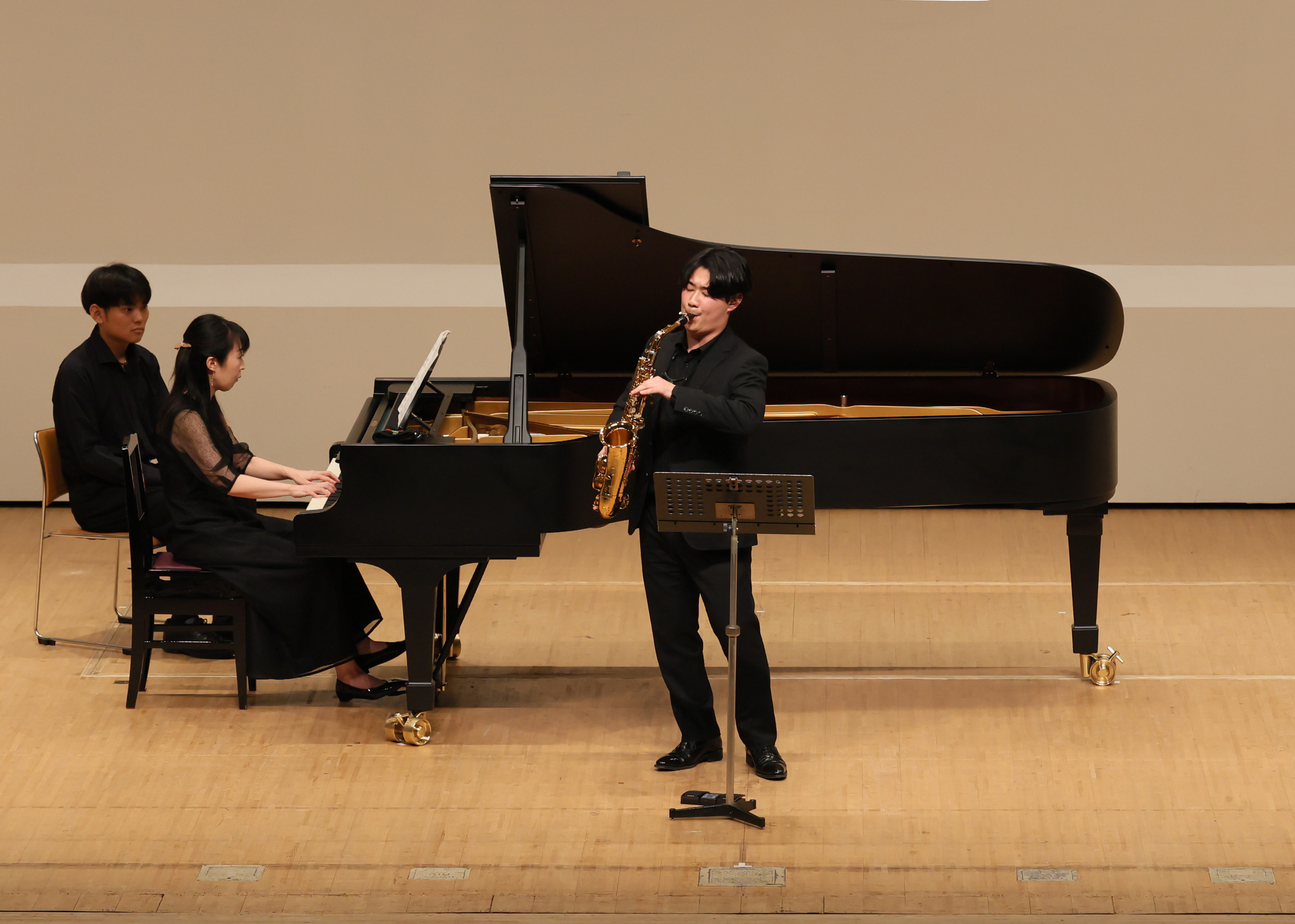
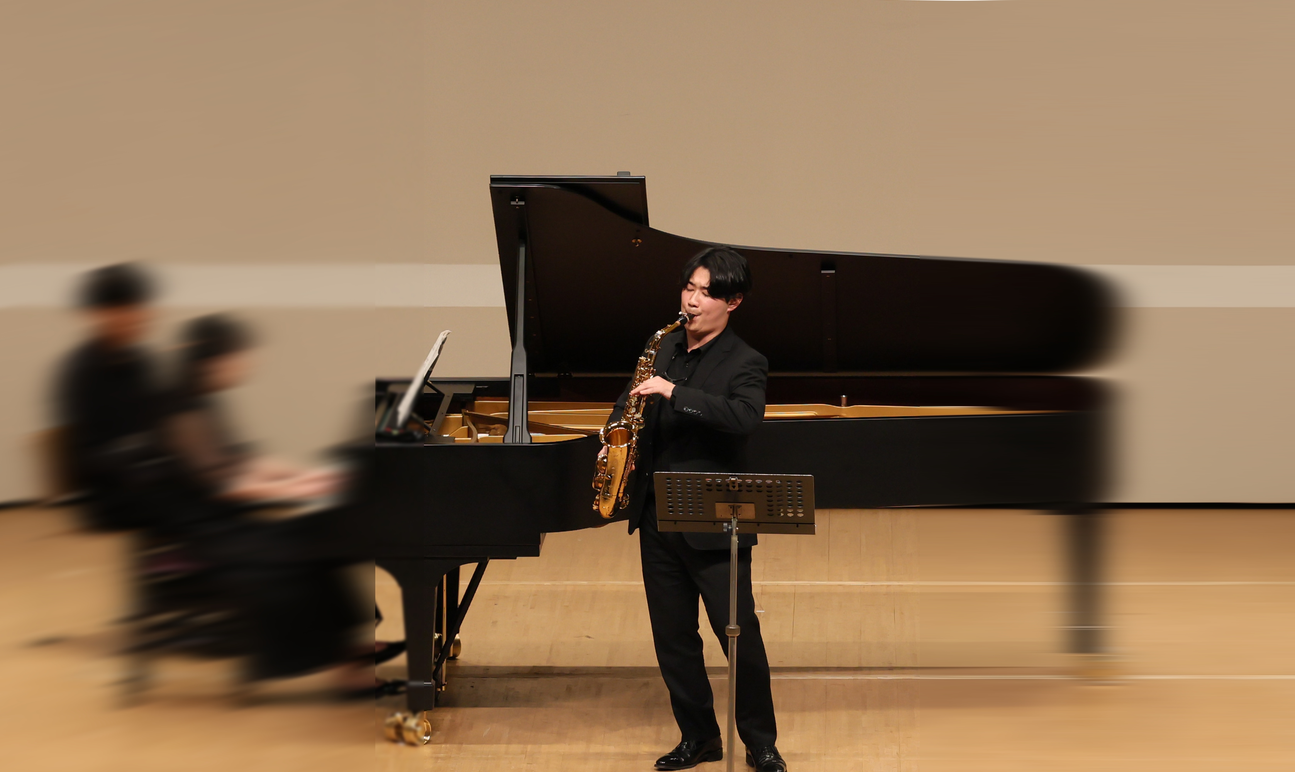
todo回収

diff --git a/index.html b/index.html
@@ -60,42 +60,12 @@
         </div>
       </div>
     </section>
-
-    <section class="latest-news">
-      <div class="container">
-        <h2 class="section-title">最新情報</h2>
-        <div class="news-list">
-          <article class="news-item">
-            <time class="news-date" datetime="2025-05-15">2025.05.15</time>
-            <h3 class="news-title">夏季集中レッスンの募集を開始しました</h3>
-            <p class="news-text">8月に開催予定の夏季集中レッスンの募集を開始しました。受験対策にも最適です。</p>
-            <a href="#" class="news-more">詳しく見る</a>
-          </article>
-          <article class="news-item">
-            <time class="news-date" datetime="2025-04-20">2025.04.20</time>
-            <h3 class="news-title">Ensemble翡翠 春の演奏会のお知らせ</h3>
-            <p class="news-text">6月15日(日)に東京都内でEnsemble翡翠の演奏会を開催します。チケット販売中です。</p>
-            <a href="#" class="news-more">詳しく見る</a>
-          </article>
-          <article class="news-item">
-            <time class="news-date" datetime="2025-04-01">2025.04.01</time>
-            <h3 class="news-title">公式ウェブサイトをオープンしました</h3>
-            <p class="news-text">この度、公式ウェブサイトを開設いたしました。今後の活動や最新情報をお届けします。</p>
-            <a href="#" class="news-more">詳しく見る</a>
-          </article>
-        </div>
-        <div class="news-more-link">
-          <a href="#" class="btn btn-outline">過去のお知らせ</a>
-        </div>
-      </div>
-    </section>
-
     <section class="lessons-intro">
       <div class="container">
         <h2 class="section-title">レッスンのご案内</h2>
         <div class="lessons-content">
           <div class="lessons-image">
-            <img src="images/lesson_1.PNG" alt="レッスン風景">
+            <img src="images/lesson_1.JPG" alt="レッスン風景">
           </div>
           <div class="lessons-text">
             <p>初心者から上級者、音大受験生まで、レベルや目的に合わせたレッスンを提供しています。フランス留学の経験を活かし、音色の追求や表現力を重視した指導を行います。</p>

diff --git a/lessons.html b/lessons.html
@@ -29,7 +29,7 @@
       <div class="container">
         <div class="overview-content">
           <div class="overview-image fade-in">
-            <img src="images/lesson_1.PNG" alt="レッスン風景">
+            <img src="images/lesson_2.PNG" alt="レッスン風景">
           </div>
           <div class="overview-text">
             <h3 class="fade-in">フランス流と日本流、両方の良さを取り入れたサクソフォンレッスン</h3>
@@ -106,7 +106,7 @@
             <div class="plan-content">
               <ul class="plan-details">
                 <li><i class="fas fa-check"></i> 部活動等のパートレッスン</li>
-                <li><i class="fas fa-check"></i> アンサンブル（サクソフォン四重奏など）レッスン</li>
+                <li><i class="fas fa-check"></i> アンサンブル（サクソフォン四重奏など）のレッスン</li>
                 <li><i class="fas fa-check"></i> &nbsp;</li>
               </ul>
               <p>※教材費は別途</p>

diff --git a/profile.html b/profile.html
@@ -112,12 +112,6 @@
             <div class="ensemble-text">
               <p>2022年に結成されたサクソフォンアンサンブル「Ensemble翡翠（ひすい）」。ソプラノ、アルト、テナー、バリトンの各サクソフォンによる四重奏を中心に、さまざまな編成で演奏活動を行っています。</p>
               <p>クラシック作品のアレンジから現代音楽まで、幅広いレパートリーに取り組み、サクソフォンアンサンブルの可能性を追求しています。年に数回の定期演奏会を中心に、様々な演奏活動を行っています。</p>
-              <div class="ensemble-links">
-                <a href="https://www.instagram.com/ensemble_hisui/" target="_blank" rel="noopener noreferrer"
-                  class="btn btn-outline">
-                  <i class="fab fa-instagram"></i> Instagram
-                </a>
-              </div>
             </div>
           </div>
         </div>
